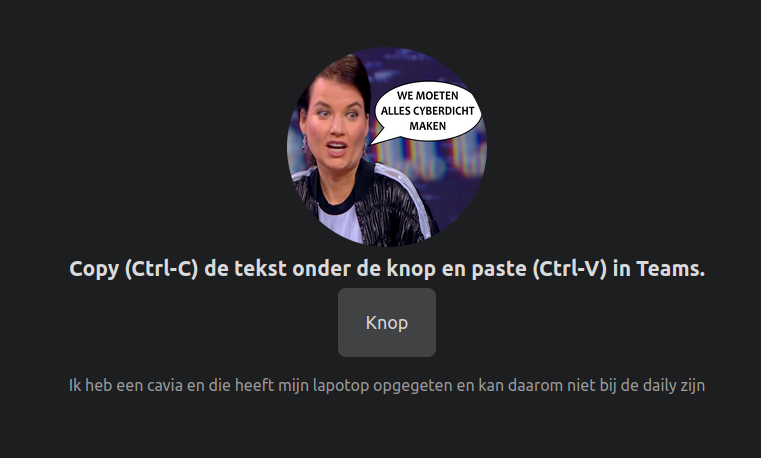
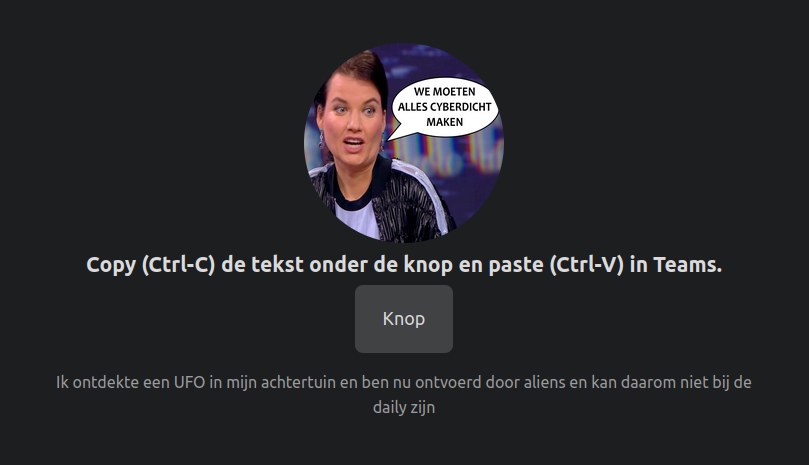
That commit when you reread the README when it is live, updates Real FINAL -> this is the final one

Changed region(s): [[0.0604, 0.0917, 0.9369, 0.8865]]

diff --git a/backend/src/main.rs b/backend/src/main.rs
@@ -94,8 +94,7 @@ async fn main() -> std::io::Result<()> {
           "Ik keek naar de sterren en vind nu alles nietig en insignificant".to_string(),
           "Ik zag een hele goede aanbieding voor een tosti ijzer bij de Lidl".to_string(),
           "Ik mag meedoen aan Holland got Talent".to_string(),
-          "Er groeit iets in mijn buik wat bekeken moet worden".to_string(),
-          "Ik heb een cavia en die heeft mijn lapotop opgegeten".to_string(),
+          "Ik heb een cavia en die heeft mijn laptop opgegeten".to_string(),
           "Ik ontdekte een UFO in mijn achtertuin en ben nu ontvoerd door aliens".to_string(),
           "Ik ben gebeld door Rutte voor een zeer geheime missie in het Staatsbelang".to_string(),
           "Ik zie dat al mijn boeken in de kast nog niet correct op kleur en titel gesorteerd staan".to_string(),

diff --git a/README.md b/README.md
@@ -14,13 +14,32 @@ Data transfer is with advanced(tm) JSON formatting technology.
 The back-end can be used standalone to integrate in other applications, it's not tied to the frontend.
 
 ## How to make it work?
-This is a hacked-up mess and there isn't a nice installer. To make this work, do:
-* find/have/arrange/steal a VPS, I used one with a Debian Bullseye image on it.
-* Install a load balancer (I used nginx) or use one from a Cloud something.
-* Compile the back-end (basically `cargo build --release`) and copy the afmelder-app from target/ over to VPS
-* Install afmelder.service in systemd of VPS and start back-end service
-* "Compile" frontend with `hugo`, just like the Hugo RTFM says.
-* Copy over the site found in public/ to /var/www/afmelder-app on the VPS, probably with scp
+Compile the digital bits and bytes in this repo and run the mess comming out of it in a Virtual Private Server (VPS).
+You can enjoy all the juicy goodness of this app afterwards.
+You can also run this whole hot mess on your local machine. 
+Leave out the load balancer and use "localhost" as your server.
+
+This is a manual hacked-up mess and there isn't a nice installer. To make this work, try:
+* Find/have/arrange/borrow/steal a VPS, I used one with a Debian Bullseye image on it.
+* Do all the SSH key, updates, firwall etc. stuff you do with a basic VPS.
+* Install a webserver/load balancer (I use nginx) or use one from a Cloud something.
+* git clone this repo (duh..) on your machine (laptop or desktop)
+* Start a container on your machine with the `debian-podman.sh` script, or do it manually inspired by the script
+    * In te container: go to the /opt/afmelder-app directory
+    * Do all the Rust stuff, so maybe `cargo check` and definately `cargo build --release`
+    * exit and nuke the container
+* Copy (scp or rsync) the afmelder.service file in the repo to the VPS under `/etc/systemd/system/afmelder.service`
+* Copy (scp or rsync) the `afmelder-app` binary from the repo `backend/target/release` directory to your VPS as /opt/afmelder-app
+* Log into the VPS with SSH and do:
+    * create `afmelder` user with something like `useradd -s /usr/bin/nologin -r -M afmelder`
+    * Make afmelder-app executable on the VPS with something like `chmod +x /opt/afmelder-app` 
+    * Start the afmelder service with `systemd start afmelder.service`
+    * Check with `systemd status afmelder.service`
+    * If there are errors (red text), _don't_ bother me with that. Find someone with a neckbeard to help you
+    * exit SSH
+* Install Hugo on your local machine using the Hugo RTFM: https://gohugo.io/installation/
+* "Compile" frontend with the command `hugo` inside the repo `frontend/` directory, just like the Hugo RTFM says.
+* Copy over the site found in `frontend/public/` in the `/var/www/afmelder-app/` directory on the VPS, probably with scp or rsync
 * Ready! enjoy the site.
 
 This is in no-way a comprehensive install guide, you probably need to understand Rust (well, Cargo at least) and Hugo to fix everything I didnt tell you.
